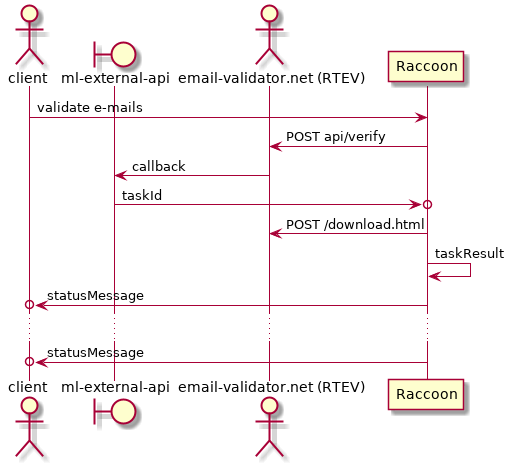
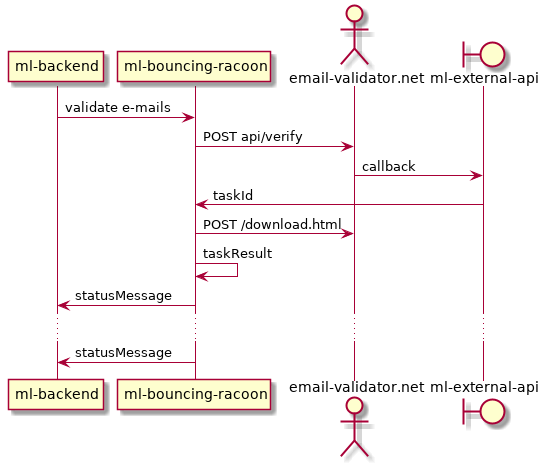
ML-0 add context diagram, refactor other diagrams

diff --git a/README.md b/README.md
@@ -18,6 +18,9 @@
 
 http://docs.aws.amazon.com/ses/latest/DeveloperGuide/best-practices-bounces-complaints.html
 
+![](/doc/context.png)
+[context.plantuml](/doc/context.plantuml)
+
 ## Local development
 
 You can start the required Docker containers with the following command:
@@ -48,7 +51,7 @@ Known issues:
 
 * `@MockBean`/`@TestConfiguration` doesn't work when run all tests. Workaround: `@DirtiesContext` for other IT.
 
-## Database
+## Database (WIP)
 
 Access to the DEV and Stage database is via the Jump Server:
 
@@ -71,7 +74,7 @@ Access to the DEV and Stage database is via the Jump Server:
 
 RTEV callbacks `GET /racoon/tasks/callbacks?taskid=<taskId>`
 
-### Swagger
+### Swagger (WIP)
 * [LOCAL](http://localhost:8107/swagger-ui.html)
 * [DEV](https://bouncing-racoon.dev.magicline.com/swagger-ui.html)
 * [STAGE](https://bouncing-racoon.stage.magicline.com/swagger-ui.html)
